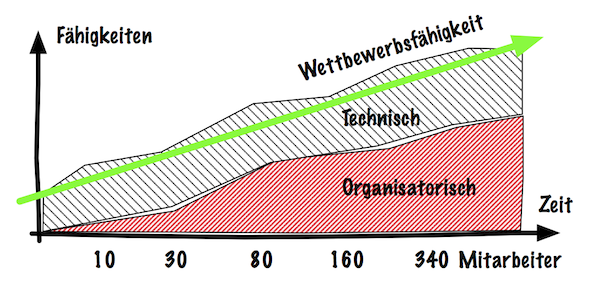
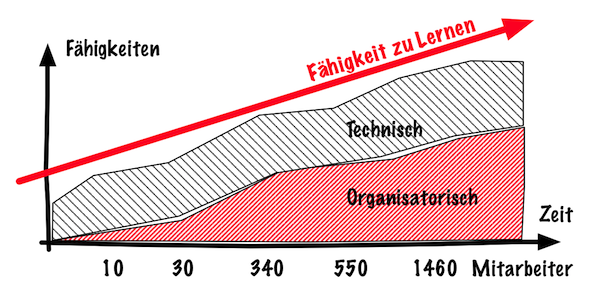
new pages

diff --git a/de/consulting.html b/de/consulting.html
@@ -39,55 +39,23 @@ title: Das lernende Unternehmen
 
 		<p>Für den Wandel zu einem lernenden Unternehmen müssen wir erneut lernen die Zusammenhänge und Folgen unseres Handelns zu sehen, anstelle nur gut in unserer jeweiligen Abteilung, wo wir zufällig gelandet sind, isoliert zu funktionieren.</p>
 		
-		<h2 class="caimito-main-color">Agile Vorgehensweisen</h2>
-		<p><strong>Viele Jahre</strong> bevor der Begriff <strong>Agile</strong> geprägt wurde haben unsere <strong>Fach&shy;leute</strong> agile Vorgehensweisen in ihrer täglichen Arbeit benutzt. Für uns ist es die <strong>normalste Sache</strong> der Welt <strong>Fortschritt</strong> in Form von <strong>funk&shy;tio&shy;nie&shy;ren&shy;der Software</strong> zu zeigen - ganz so wie es normal für einen Fisch ist im Wasser zu schwimmen.</p>
-		<p>Auf der anderen Seite verstehen wir, daß aufgrund seiner bisherigen Ausbildung nicht jeder <em>Wasser</em> als die natürlichste Sache der Welt er&shy;ken&shy;nen kann. Unseren Kunden bieten wir unsere Hilfe an, damit auch Sie und Ihre Mitarbeiter ein nachhaltiges Arbeitsumfeld zum fort&shy;wäh&shy;ren&shy;den Lernen erschaffen können.</p>
-			
-		<blockquote class="client"><span>Stephan is one of few people that truly understands the process and nuisances of building software in the real world. When it comes to Scrum, Agile and maximizing the efficiency and happiness of a team of developers there is no one I would trust more than him.</span>
-			<p>Brian Sam-Bodden, Integrallis Software, 2007</p>
-		</blockquote>	
-
-		<h3 class="caimito-green-color">Agil arbeiten oder agil sein</h3>
-		<p>Die <strong>Einführung</strong> von agilen Vorgehensweisen, wie zum Beispiel Scrum oder Kanban, ist <strong>nicht</strong> das <strong>Ziel</strong> für ein lernendes Unter&shy;nehmen.</p>
-		<p>Stattdessen helfen wir unseren Kunden agiler zu werden, indem wir einen Ansatz für unser Coaching verwenden, der selbst auf <strong>kon&shy;ti&shy;nu&shy;ier&shy;li&shy;cher Überprüfung</strong> und <strong>Anpassung</strong> basiert. Je nachdem in wel&shy;cher Lage Sie und Ihr Team sich gerade befinden, beginnen wir mit Vorgehensweisen, die einfach und trotzdem hilfreich sind, um ziel&shy;ge&shy;rich&shy;te&shy;ter zu arbeiten. Sobald es Sinn macht und der Entwicklung des Teams förderlich ist, fügen wir schrittweise andere Vorgehensweisen hinzu. Unser Ansatz ist <strong>frei von Dogma</strong> damit Ihr Unternehmen agil werden kann und nicht blind einfach nur Agile anwendet.</p>
-
-		<blockquote class="client"><span>Stephan is both conscientious and competent. His knowledge of design patterns and programming tools is extensive. He is highly disciplined and not only follows, but enforces the XP methodology.</span>
-			<p>Rupert Bruce, Senior Developer, RealWorld Systems, 2007</p>
-		</blockquote>	
-			
-		<div class="callout">
-			<p><strong>Möchten Sie mehr wissen?</strong></p>
-			<p><a href="mailto:info@caimito.net">Kontaktieren Sie uns</a> für eine persönliche Beratung!</p>
-		</div>
-
-		<blockquote class="client"><span>Stephan is an expert in Java software development. My colleage Jef Newsom and I worked with Stephan on an Agile project for the healthcare space. Stephan was smart, self-sufficient, and very productive. I would hire him again given the opportunity.</span>
-			<p>Todd Girvin, 2006</p>
-		</blockquote>	
-
 		<h2 class="caimito-main-color">Sichtbarer Lernfortschritt</h2>
 		<p>Jeder Einsatz für Beratung oder Coaching ist anders. Wir wollen Ihnen <strong>zuhöhren</strong>, um zu <strong>verstehen</strong> in welcher Lage sich Ihr Unter&shy;nehmen befindet, bevor wir Maßnahmen vorschlagen, zu einem Seminar raten oder beginnen Sie und Ihre Mitarbeiter zu coachen. Danach <strong>ent&shy;wi&shy;ckeln</strong> wir <strong>gemeinsam</strong> eine <strong>Karte</strong>, ähnlich einer story map für agile Software-Entwicklung, auf der wir unsere <strong>Ziele dar&shy;stellen</strong>. An einer Wand angebracht hilft uns die Karte unseren <strong>Fortschritt</strong> zu <strong>messen</strong> und <strong>sichtbar</strong> zu machen. Mit einer zu&shy;sätz&shy;li&shy;chen <strong>Kanban-Tafel</strong> stellen wir die aktuelle Lage dar und planen die nächsten Schritte.</p>
 	</div>
 	<div class="span6">
+		<h2 class="caimito-main-color">Für etablierte Unternehmen?</h2>
+		<p><img src="/img/established-corporation.png" align="left" style="margin-right: 15px"/> Durch die Verbesserung Ihrer technischen und organisatorischen Fähigkeiten erhöhen Sie Ihre Wettbewerbsfähigkeit. Damit sich die Qualität Ihrer bestehenden Produkte zur Zufriedenheit Ihrer Kunden verbessert. Damit Sie interne Reibungsverluste vermeiden. Damit Ihre Mitarbeiter innovativer sein können. Damit Sie schneller als der Mitbewerb Trends erkennen.</p>
+		<p align="left"><a class="btn btn-primary" href="competitive-abilities.html" style="padding-left: 2em; padding-right: 2em">Ich will Wettbewerbsfähigkeit verbessern</a></p>
+		<br clear="all"/>
 
-		<h2 class="caimito-main-color">Lean Startup</h2>
-		<p>Egal ob Sie eine großartige Geschäftsidee haben und ein Startup-Unternehmen gründen möchten oder ob Sie in einem mittleren oder großen Unternehmen für eine Abteilung zuständig sind, Caimito kann Ihnen helfen mit Ihrem Vorhaben nachhaltigen Erfolg zu haben.</p>
-		<p>Unsere Fachleute haben viele Male <strong>durchgeführt</strong> was <strong>Sie beginnen</strong> möchten. Sie haben ihre <strong>Lektionen</strong> gelernt und ihre <strong>Schluß&shy;fol&shy;ge&shy;run&shy;gen</strong> daraus gezogen. Heute können sie daher mit Ihnen teilen was funktioniert und was nicht.</p>
-		
-		<blockquote class="client"><span>Working with Stephan at Softstream was a very inspiring time.</span>
-			<p>Thomas Hornschuh, Co-Founder, Softstream Development, 1995</p>
-		</blockquote>	
+		<h2 class="caimito-main-color">Für Startups?</h2>
+		<p><img src="/img/lightbulb.png" align="right" style="margin-left: 15px"/> Sie haben eine großartige Produktidee. Doch für wen ist das neue Produkt überhaupt interessant? Wie soll es aussehen? Um Ihre Idee zu validieren müssen Sie etwas auf den Markt bringen. Damit aus einer Produktidee ein Unternehmen wird, braucht es gute technische Fähigkeiten und eine organisatorische Struktur, die schnelles und wirksames entwickeln von Kunden möglich machen.</p>
+		<p><a class="btn btn-primary" href="startup-abilities.html" style="padding-left: 2em; padding-right: 2em">Ich will Kunden entwickeln</a></p>
+		<br clear="all"/>
 
-
-		<div class="callout">
-			<p><strong>Möchten Sie mehr wissen?</strong></p>
-			<p><a href="mailto:info@caimito.net">Kontaktieren Sie uns</a> für eine persönliche Beratung!</p>
-		</div>
-		
 		<h3 class="caimito-green-color">Internationale Erfahrung</h3>
 		<p>Wir sind in der Welt herumgekommen. Wir wissen wie die lokale Kul&shy;tur die Art und Weise der Unternehmensführung beinflußt, wie Kunden reagieren und wie man in anderen Ländern miteinander umgeht.</p>
 		<p>Wir haben persönliche <strong>Erfahrung</strong> im Führen von Unternehmen in <strong>Eu&shy;ro&shy;pa</strong>, den <strong>Vereinigten Staaten</strong> und <strong>Lateinamerika</strong>. In allen diesen Or&shy;ten spielt die Musik ein wenig anders.</p>
 
 	</div>
 </div>
-
-<p><em>Die hier gezeigten Referenzen wurden in englischer Sprache gegeben. Sie wurden nicht übersetzt, um den Inhalt nicht zu verfälschen.</em></p>

diff --git a/de/competitive-abilities.html b/de/competitive-abilities.html
@@ -1,0 +1,63 @@
+---
+layout: article
+title: Entwicklung von Fähigkeiten für etablierte Unternehmen
+---
+<h1>Entwicklung von Fähigkeiten für etablierte Unternehmen</h1>
+<p class="introduction"><img src="/img/established-corporation.png" align="left" style="margin-right: 15px"/> Durch die Verbesserung Ihrer technischen und organisatorischen Fähigkeiten erhöhen Sie Ihre Wettbewerbsfähigkeit. Damit sich die Qualität Ihrer bestehenden Produkte zur Zufriedenheit Ihrer Kunden verbessert. Damit Sie interne Reibungsverluste vermeiden. Damit Ihre Mitarbeiter innovativer sein können. Damit Sie schneller als der Mitbewerb Trends erkennen.</p>
+<p></p>
+
+<div class="row">
+	<div class="span6">
+		<h2 class="caimito-main-color">Innovation ermöglichen</h2>
+		<p>Freies Denken und ungehinderter Informationsfluß in alle Richtungen sind Grundvoraussetzungen für Innovation. In Abhängigkeit von der bestehenden Unternehmenskultur kann dies aber ungemein schwierig sein.</p>
+		<p>Glücklicherweise gibt es Wege dies zu verbessern - wenn man denn Klarheit über die bestehende Unternehmenskultur hat. Wir können Ihnen auf vielfältige Weise helfen die richtigen Maßnahmen zur Verbesserung Ihrer Fähigkeit zu Innovation zu ergreifen ohne das diese von den Mitarbeitern abgelehnt werden.</p>
+		
+		<h2 class="caimito-main-color">Agile Vorgehensweisen</h2>
+		<p>Viele Jahre bevor der Begriff Agile geprägt wurde haben unsere Fach&shy;leute agile Vorgehensweisen in ihrer täglichen Arbeit benutzt. Für uns ist es die normalste Sache der Welt Fortschritt in Form von funk&shy;tio&shy;nie&shy;ren&shy;der Software zu zeigen - ganz so wie es normal für einen Fisch ist im Wasser zu schwimmen.</p>
+
+		<blockquote class="client"><span>Stephan is one of few people that truly understands the process and nuisances of building software in the real world. When it comes to Scrum, Agile and maximizing the efficiency and happiness of a team of developers there is no one I would trust more than him.</span>
+			<p>Brian Sam-Bodden, Integrallis Software, 2007</p>
+		</blockquote>	
+
+		<p>Auf der anderen Seite verstehen wir, daß aufgrund seiner bisherigen Ausbildung nicht jeder <em>Wasser</em> als die natürlichste Sache der Welt er&shy;ken&shy;nen kann. Unseren Kunden bieten wir unsere Hilfe an, damit auch Sie und Ihre Mitarbeiter ein nachhaltiges Arbeitsumfeld zum fort&shy;wäh&shy;ren&shy;den Lernen erschaffen können.</p>
+			
+		<div class="callout">
+			<p>Möchten Sie mehr wissen?</p>
+			<p><a href="mailto:info@caimito.net">Kontaktieren Sie uns</a> für eine persönliche Beratung!</p>
+		</div>
+
+		<h3 class="caimito-green-color">Agil arbeiten oder agil sein</h3>
+		<p>Die Einführung von agilen Vorgehensweisen, wie zum Beispiel Scrum oder Kanban, ist nicht das Ziel für ein lernendes Unter&shy;nehmen.</p>
+		<p>Stattdessen helfen wir unseren Kunden agiler zu werden, indem wir einen Ansatz für unser Coaching verwenden, der selbst auf kon&shy;ti&shy;nu&shy;ier&shy;li&shy;cher Überprüfung und Anpassung basiert. Je nachdem in wel&shy;cher Lage Sie und Ihr Team sich gerade befinden, beginnen wir mit Vorgehensweisen, die einfach und trotzdem hilfreich sind, um ziel&shy;ge&shy;rich&shy;te&shy;ter zu arbeiten. Sobald es Sinn macht und der Entwicklung des Teams förderlich ist, fügen wir schrittweise andere Vorgehensweisen hinzu. Unser Ansatz ist frei von Dogma damit Ihr Unternehmen agil werden kann und nicht blind einfach nur Agile anwendet.</p>
+	</div>
+	<div class="span6">
+		<h2 class="caimito-main-color">Warum Lernen so wichtig ist</h2>
+		<p>Die Fähigkeit zu Lernen ist eine Kombination aus einerseits der Fähigkeit technisch hervorragende Produkte zu entwickeln und zu fertigen und andererseits aus der Fähigkeit als Gesamtunternehmen dies zu unterstützen.</p>
+		<figure>
+			<img src="/img/org-capabilities-DE.png"/>
+			<figcaption><p>Zusammenwirken von Fähigkeiten des Unternehmens</p></figcaption>
+		</figure>
+		<p>Nur wenn das Gesamtunternehmen in der Lage ist Märkte und Kunden zu verstehen und zu entwickeln, können die technischen Fähigkeiten wirksam zum Erfolg führen. Ohne diese organisatorischen Fähigkeiten wird es zum Spezialisten, der irgendwann übernommen wird oder - im schlechtesten Fall - geht es unter.</p>
+		<p>Wir helfen Ihnen technische und organisatorische Fähigkeiten zu entwickeln, auszubauen und diese zueinander in einem gesunden Gleichgewicht zu halten.</p>
+		
+		<h2 class="caimito-main-color">Technische Fähigkeiten</h2>
+		<p>Eine Vielzahl von technischen Fähigkeiten ist notwendig, um gute Arbeit zu leisten. Wir wollen die folgenden Fähigkeit besonders hervorheben:</p>
+		
+		<dl class="posts">
+			<dt><a href="atdd.html">Defekte durch ATDD vermeiden</a></dt>
+			<dd>Auftraggeber und Entwick&shy;lungsteam de&shy;fi&shy;nie&shy;ren gemeinsam in Form einer aus&shy;führ&shy;baren Spezifikation was die zu entwickelnde Soft&shy;ware tun soll.</dd>
+		</dl> 
+
+		<blockquote class="client"><span>Stephan is an outstanding technologist and coach. He is able to understand the coaching needed by a team and also update the technology stack to support the team and his coaching plan. Stephan helped us with Acceptance Test Driven Development on a number of technology stacks including web applications, Windows application and COBOL in addition to the tradition Java technology stack. I would both recommend and hire Stephan.</span>
+			<p>Cameron Wolff, ADL Nationwide Insurance, 2011</p>
+		</blockquote>
+
+		<dl class="posts">
+			<dt><a href="acd.html">Activity-Centered Design</a></dt>
+			<dd>Produkte mit gutem Design sind aus einem tiefen und umfassenden Ver&shy;ständ&shy;nis der Tätigkeiten des Anwenders her&shy;vor&shy;ge&shy;gan&shy;gen. Das macht sie fit für einen an&shy;spruchs&shy;vol&shy;len Markt und besser als der Mitbewerb. In einigen Fällen kann dieser Unterschied zu gewöhnlichen Produkten einen ganzen In&shy;du&shy;strie&shy;zweig auf den Kopf stellen.</dd> 
+		</dl>
+
+	</div>
+</div>
+
+<p><em>Die hier gezeigten Referenzen wurden in englischer Sprache gegeben. Sie wurden nicht übersetzt, um den Inhalt nicht zu verfälschen.</em></p>

diff --git a/de/startup-abilities.html b/de/startup-abilities.html
@@ -1,0 +1,55 @@
+---
+layout: article
+title: Entwicklung von Fähigkeiten für Startups
+---
+<h1>Entwicklung von Fähigkeiten für Startups</h1>
+<p class="introduction"><img src="/img/lightbulb.png" align="left" style="margin-right: 15px"/> Sie haben eine großartige Produktidee. Doch für wen ist das neue Produkt überhaupt interessant? Wie soll es aussehen? Um Ihre Idee zu validieren müssen Sie etwas auf den Markt bringen. Damit aus einer Produktidee ein Unternehmen wird, braucht es gute technische Fähigkeiten und eine organisatorische Struktur, die schnelles und wirksames entwickeln von Kunden möglich machen.</p>
+
+<div class="row">
+	<div class="span6">
+		<h2 class="caimito-main-color">Produkte und Kunden entwickeln</h2>
+		<p><em>Built it and they will come</em> sagen manche. Das ist sicher richtig. Doch was dann, wenn tatsächlich die ersten Kunden kommen und das neue Produkt in Augenschein nehmen?</p>
+		<p>Das ist dann die Gelegenheit für das Validieren der eigenen Annahmen - und zum Lernen.</p>
+		<p><em>Lean Startup</em> ist ein Weg durch das Durchführen kontrollierter Experimente die richtigen Kunden für eine Produktidee zu finden und diese zu entwickeln. Oder man stellt aufgrund der erhaltenen Daten fest, daß man das Produkt verändern muß.</p>
+
+		<blockquote class="client"><span>Working with Stephan at Softstream was a very inspiring time.</span>
+			<p>Thomas Hornschuh, Co-Founder, Softstream Development, 1995</p>
+		</blockquote>	
+		
+		<h2 class="caimito-main-color">Agile Vorgehensweisen</h2>
+		<p>Viele Jahre bevor der Begriff Agile geprägt wurde haben unsere Fach&shy;leute agile Vorgehensweisen in ihrer täglichen Arbeit benutzt. Für uns ist es die normalste Sache der Welt Fortschritt in Form von funk&shy;tio&shy;nie&shy;ren&shy;der Software zu zeigen - ganz so wie es normal für einen Fisch ist im Wasser zu schwimmen.</p>
+
+		<blockquote class="client"><span>Stephan is one of few people that truly understands the process and nuisances of building software in the real world. When it comes to Scrum, Agile and maximizing the efficiency and happiness of a team of developers there is no one I would trust more than him.</span>
+			<p>Brian Sam-Bodden, Integrallis Software, 2007</p>
+		</blockquote>	
+
+		<p>Die Einführung von agilen Vorgehensweisen, wie zum Beispiel Scrum oder Kanban, ist nicht das Ziel für ein lernendes Unter&shy;nehmen. Stattdessen geht es darum durch z.B. diese Techniken agiles Denken und Handeln zu erlernen und - auf die individuellen Bedürfnisse und Situationen angepaßt - fortzuentwickeln.</p>
+
+		<div class="callout">
+			<p>Möchten Sie mehr wissen?</p>
+			<p><a href="mailto:info@caimito.net">Kontaktieren Sie uns</a> für eine persönliche Beratung!</p>
+		</div>
+		
+	</div>
+	<div class="span6">
+		<h2 class="caimito-main-color">Warum Lernen so wichtig ist</h2>
+		<p>Die Fähigkeit zu Lernen ist eine Kombination aus einerseits der Fähigkeit technisch hervorragende Produkte zu entwickeln und zu fertigen und andererseits aus der Fähigkeit als Gesamtunternehmen dies zu unterstützen.</p>
+		<figure>
+			<img src="/img/org-capabilities-DE.png"/>
+			<figcaption><p>Zusammenwirken von Fähigkeiten des Unternehmens</p></figcaption>
+		</figure>
+		<p>Nur wenn das Gesamtunternehmen in der Lage ist Märkte und Kunden zu verstehen und zu entwickeln, können die technischen Fähigkeiten wirksam zum Erfolg führen. Ohne diese organisatorischen Fähigkeiten wird es zum Spezialisten, der irgendwann übernommen wird oder - im schlechtesten Fall - geht es unter.</p>
+		<p>Wir helfen Ihnen technische und organisatorische Fähigkeiten zu entwickeln, auszubauen und diese zueinander in einem gesunden Gleichgewicht zu halten.</p>
+		
+		<h2 class="caimito-main-color">Technische Fähigkeiten</h2>
+		<p>Eine Vielzahl von technischen Fähigkeiten ist notwendig, um gute Arbeit zu leisten. Wir wollen die folgenden Fähigkeit besonders hervorheben:</p>
+
+		<dl class="posts">
+			<dt><a href="acd.html">Activity-Centered Design</a></dt>
+			<dd>Produkte mit gutem Design sind aus einem tiefen und umfassenden Ver&shy;ständ&shy;nis der Tätigkeiten des Anwenders her&shy;vor&shy;ge&shy;gan&shy;gen. Das macht sie fit für einen an&shy;spruchs&shy;vol&shy;len Markt und besser als der Mitbewerb. In einigen Fällen kann dieser Unterschied zu gewöhnlichen Produkten einen ganzen In&shy;du&shy;strie&shy;zweig auf den Kopf stellen.</dd> 
+		</dl>
+		
+	</div>
+</div>
+
+<p><em>Die hier gezeigten Referenzen wurden in englischer Sprache gegeben. Sie wurden nicht übersetzt, um den Inhalt nicht zu verfälschen.</em></p>

diff --git a/de/index.html b/de/index.html
@@ -2,9 +2,21 @@
 layout: main
 title: Caimito - Tätigkeitsorientiertes Design, Acceptance Test-Driven Development, Lernendes Unternehmen, Unternehmensentwicklung, Zusammenarbeit, Activity-Centered Design
 ---
+<h1 class="caimito-main-color">Wir helfen Ihnen Fähigkeiten zu entwickeln</h1>
+<p>Hat Ihr Unternehmen die richtige Mischung aus technischen und organisatorischen Fähigkeiten?</p>
+
 <div class="row">
-	<div class="span12">
-		<p align="center"><a href="contact-sns.html"><img src="/img/Talk-To-Me-DE.png" style="margin-top: -30px; margin-bottom: 10px"/></a></p>
+	<div class="span6">
+		<h2 class="caimito-green-color">Sie sind ein etabliertes Unternehmen?</h2>
+		<p><img src="/img/established-corporation.png" align="left" style="margin-right: 15px"/> Durch die Verbesserung Ihrer technischen und organisatorischen Fähigkeiten erhöhen Sie Ihre Wettbewerbsfähigkeit. Damit sich die Qualität Ihrer bestehenden Produkte zur Zufriedenheit Ihrer Kunden verbessert. Damit Sie interne Reibungsverluste vermeiden. Damit Ihre Mitarbeiter innovativer sein können. Damit Sie schneller als der Mitbewerb Trends erkennen.</p>
+		<p align="left"><a class="btn btn-primary" href="competitive-abilities.html" style="padding-left: 2em; padding-right: 2em">Ich will Wettbewerbsfähigkeit verbessern</a></p>
+		<br clear="all"/>
+	</div>
+	<div class="span6">
+		<h2 class="caimito-green-color" style="text-align: right">Sie sind ein Startup?</h2>
+		<p><img src="/img/lightbulb.png" align="right" style="margin-left: 15px"/> Sie haben eine großartige Produktidee. Doch für wen ist das neue Produkt überhaupt interessant? Wie soll es aussehen? Um Ihre Idee zu validieren müssen Sie etwas auf den Markt bringen. Damit aus einer Produktidee ein Unternehmen wird, braucht es gute technische Fähigkeiten und eine organisatorische Struktur, die schnelles und wirksames entwickeln von Kunden möglich machen.</p>
+		<p align="right"><a class="btn btn-primary" href="startup-abilities.html" style="padding-left: 2em; padding-right: 2em">Ich will Kunden entwickeln</a></p>
+		<br clear="all"/>
 	</div>
 </div>
 
@@ -35,8 +47,8 @@ title: Caimito - Tätigkeitsorientiertes Design, Acceptance Test-Driven Developm
 			{% include services-list-de.html %}
 		</div>
 		<div class="span8">
-			<h2 class="caimito-main-color">Wir helfen Ihnen Fähigkeiten zu entwickeln</h2>
-			<p>Wettbewerbsfähigkeit ist eine Kombination aus einerseits der Fähigkeit technisch hervorragende Produkte zu entwickeln und zu fertigen und andererseits aus der Fähigkeit als Gesamtunternehmen dies zu unterstützen.</p>
+			<h2 class="caimito-main-color">Wodurch die Fähigkeit zu Lernen entsteht</h2>
+			<p>Die Fähigkeit zu Lernen ist eine Kombination aus einerseits der Fähigkeit technisch hervorragende Produkte zu entwickeln und zu fertigen und andererseits aus der Fähigkeit als Gesamtunternehmen dies zu unterstützen.</p>
 			<figure>
 				<img src="/img/org-capabilities-DE.png"/>
 				<figcaption><p>Zusammenwirken von Fähigkeiten des Unternehmens</p></figcaption>

diff --git a/de/overcoming-crisis.html b/de/overcoming-crisis.html
@@ -8,21 +8,22 @@ title: Gestärkt aus Krisen hervorgehen
 <p class="introduction">Wollen Sie jedoch gestärkt aus einer Krise hervorgehen, benötigt es neben der Optimierung von Abläufen auch einer Verbesserung der Zusammenarbeit.</p>
 
 <div class="row">
+	<div class="span12">
+		<p align="center"><a href="contact-sns.html"><img src="/img/Talk-To-Me-DE.png" style="margin-top: -30px; margin-bottom: 10px"/></a></p>
+	</div>
+</div>
+
+<div class="row">
 	<div class="span6">
 		<h2 class="caimito-main-color">Optimierung der Abläufe</h2>
 		<p>Verbesserte Abläufe helfen Verluste durch unnötige Arbeiten zu vermeiden. Durch Optimierung werden die Zeit zur Erbringung einer Leistung und die verbundenen Ausgaben reduziert. Man ist schneller am Markt. Kundenanfragen werden schneller bedient. Rechnungen gehen schneller raus. Überall im Unternehmen hilft Optimierung.<p>
 
-		<figure class="report">
-			<img src="/img/agility-optimization-collaboration-DE.png"/>
-			<figcaption>Agilität durch Optimierung und Zusammenarbeit</figcaption>
-		</figure>
+			<h2 class="caimito-main-color">Verbesserung der Zusammenarbeit</h2>
+			<p>Nach der Optimierung der Abläufe führt die Verbesserung der Zusammenarbeit zwischen den Mitarbeitern im Unternehmen und mit Zulieferern zu einer Stärkung des Unternehmens durch Erhöhung der Anpassungsfähigkeit. Das Unternehmen wird agiler und kann durch schnelles gemeinsames Lernen besser auf Veränderungen am Markt reagieren oder es erschafft sich womöglich beständig neue Märkte. Krisen verlieren für ein sich ständig neu erfindendes Unternehmen ihren Schrecken.</p>
 	</div>
 	<div class="span6">
-		<h2 class="caimito-main-color">Verbesserung der Zusammenarbeit</h2>
-		<p>Nach der Optimierung der Abläufe führt die Verbesserung der Zusammenarbeit zwischen den Mitarbeitern im Unternehmen und mit Zulieferern zu einer Stärkung des Unternehmens durch Erhöhung der Anpassungsfähigkeit. Das Unternehmen wird agiler und kann durch schnelles gemeinsames Lernen besser auf Veränderungen am Markt reagieren oder es erschafft sich womöglich beständig neue Märkte. Krisen verlieren für ein sich ständig neu erfindendes Unternehmen ihren Schrecken.</p>
-
-		<h2 class="caimito-main-color">Unser Vorschlag</h2>
-		<p>In einem Workshop zeigen wir Ihnen wie Sie in Ihrem Unternehmen Optimierungspotenziale aufdecken und es fit für mehr Agilität machen.</p>
+		<h2 class="caimito-main-color">Mein Vorschlag</h2>
+		<p>In einem Workshop zeige Ich Ihnen wie Sie in Ihrem Unternehmen Optimierungspotenziale aufdecken und es fit für mehr Agilität machen.</p>
    		<p align="center"><a class="btn" href="workshop-kanban-value-mapping.html" style="padding-left: 10em; padding-right: 10em">Mehr erfahren &raquo;</a></p>
 	</div>
 </div>
